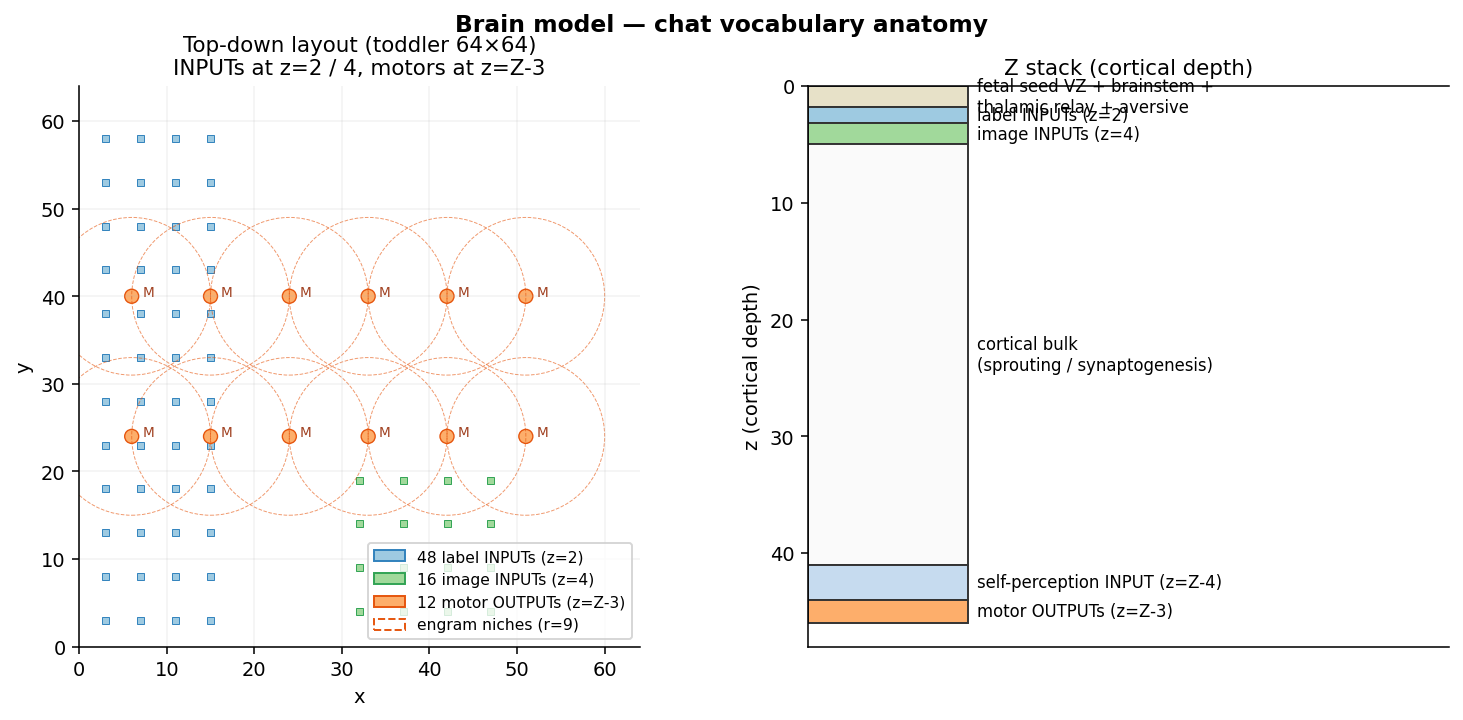
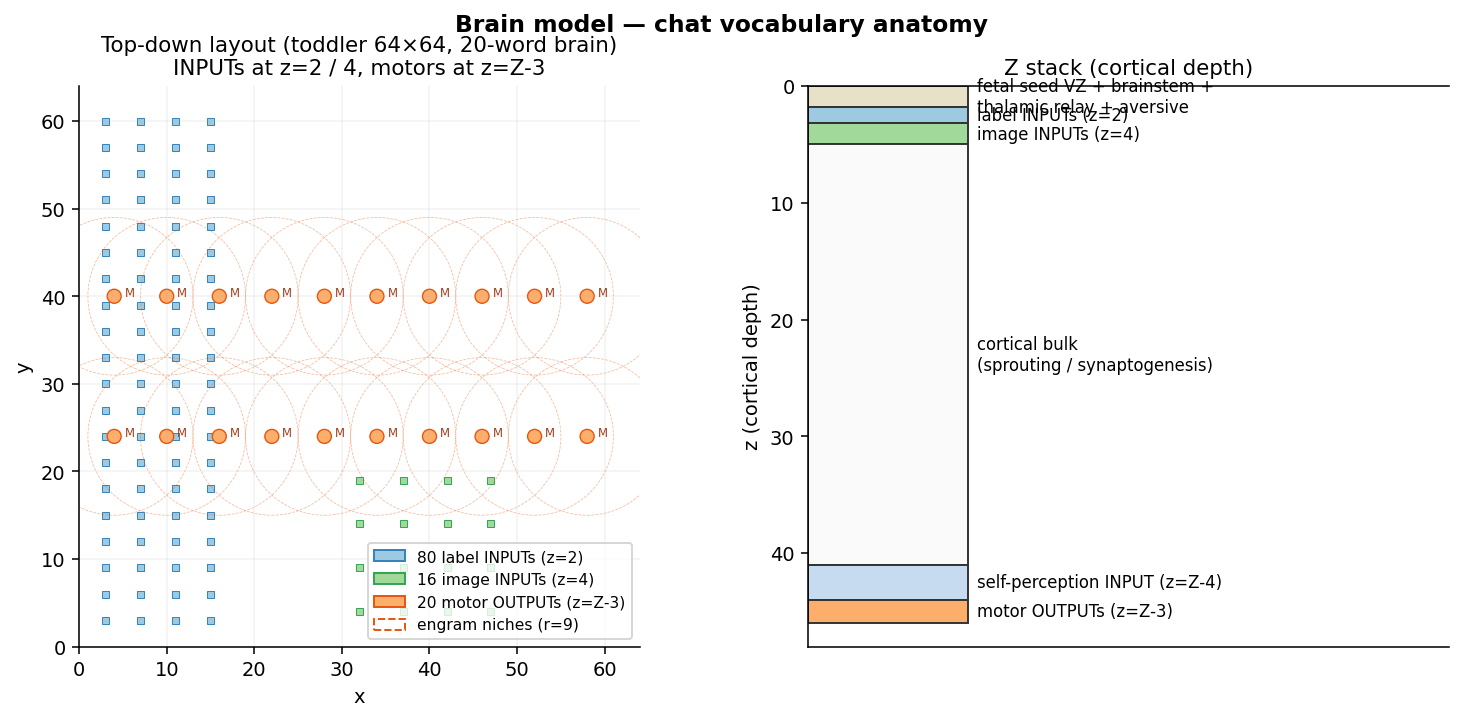
docs: refresh README + anatomy figure for 20-word baseline
The README and figures were calibrated to the 12-word brain at 75%
s15 (Pack 25.1). The cumulative pack history since then:

  Pack 25/25.1, Pack P-lite v1/v2, Pack ZZ v3, Pack M v2,
  Phase 1 morphology refactor, Phase 1' expansion,
  Vocabulary 12 -> 16 -> 20

has lifted the baseline to **100% accuracy across 25 sessions**
with 20/20 perfect recall in pure-review.

This commit:
- Updates README's "live baseline" callouts and the curriculum
  section to reflect the 20-word vocabulary at 100%.
- Adds a brief road-here summary listing every shipped pack.
- Regenerates 04_anatomy.png to show the 20-word layout (80 label
  INPUTs in 20 rows, 20 motor OUTPUTs in a 2x10 grid stride 6).

diff --git a/docs/figures/render_figures.py b/docs/figures/render_figures.py
@@ -187,14 +187,17 @@ def fig_queues():
 def fig_anatomy():
     fig, axes = plt.subplots(1, 2, figsize=(13, 5.2))
 
-    # Top-down (x, y) layout at the cortical floor / mid-depth
+    # Top-down (x, y) layout at the cortical floor / mid-depth.
+    # 20-word brain: 20 rows of 4 label INPUTs at z=2 (stride 3 in y),
+    # 4x4 image INPUTs at z=4, 2x10 motors at z=Z-3 (stride 6 in x).
     ax = axes[0]
-    ax.set_title("Top-down layout (toddler 64×64)\n"
+    ax.set_title("Top-down layout (toddler 64×64, 20-word brain)\n"
                  "INPUTs at z=2 / 4, motors at z=Z-3")
-    # ext_in: 12 rows × 4 cols at x=3..15, y=3..58 stride 5 (z=2)
-    for c in range(12):
+    n_classes = 20
+    # ext_in: 20 rows × 4 cols at y=3..60 stride 3 (z=2)
+    for c in range(n_classes):
         for f in range(4):
-            x = 3 + f * 4; y = 3 + c * 5
+            x = 3 + f * 4; y = 3 + c * 3
             ax.add_patch(plt.Rectangle((x - 0.4, y - 0.4), 0.8, 0.8,
                                         facecolor="#9ecae1",
                                         edgecolor="#3182bd", lw=0.5))
@@ -205,30 +208,30 @@ def fig_anatomy():
             ax.add_patch(plt.Rectangle((x - 0.4, y - 0.4), 0.8, 0.8,
                                         facecolor="#a1d99b",
                                         edgecolor="#31a354", lw=0.5))
-    # motors: 2 rows × 6 cols at xm=6..51, ym=Y/2-8 / +8 (z=Z-3)
-    for c in range(12):
-        col = c % 6; row = c // 6
-        xm = 6 + col * 9; ym = (32 - 8) + row * 16
+    # motors: 2 rows × 10 cols at xm=4..58 stride 6, ym=Y/2-8 / +8
+    for c in range(n_classes):
+        col = c % 10; row = c // 10
+        xm = 4 + col * 6; ym = (32 - 8) + row * 16
         ax.add_patch(plt.Circle((xm, ym), 0.8, facecolor="#fdae6b",
                                  edgecolor="#e6550d", lw=0.7))
-        ax.text(xm + 1.2, ym, "M", fontsize=7, color="#a04020")
+        ax.text(xm + 1.2, ym, "M", fontsize=6, color="#a04020")
     # niches: radius 9 around each motor
-    for c in range(12):
-        col = c % 6; row = c // 6
-        xm = 6 + col * 9; ym = (32 - 8) + row * 16
+    for c in range(n_classes):
+        col = c % 10; row = c // 10
+        xm = 4 + col * 6; ym = (32 - 8) + row * 16
         ax.add_patch(plt.Circle((xm, ym), 9, facecolor="none",
-                                 edgecolor="#e6550d", lw=0.5,
-                                 linestyle="--", alpha=0.6))
+                                 edgecolor="#e6550d", lw=0.4,
+                                 linestyle="--", alpha=0.4))
     ax.set_xlim(0, 64); ax.set_ylim(0, 64); ax.set_aspect("equal")
     ax.set_xlabel("x"); ax.set_ylabel("y")
     ax.grid(alpha=0.15)
     legend_handles = [
         mpatches.Patch(facecolor="#9ecae1", edgecolor="#3182bd",
-                       label="48 label INPUTs (z=2)"),
+                       label="80 label INPUTs (z=2)"),
         mpatches.Patch(facecolor="#a1d99b", edgecolor="#31a354",
                        label="16 image INPUTs (z=4)"),
         mpatches.Patch(facecolor="#fdae6b", edgecolor="#e6550d",
-                       label="12 motor OUTPUTs (z=Z-3)"),
+                       label="20 motor OUTPUTs (z=Z-3)"),
         mpatches.Patch(facecolor="none", edgecolor="#e6550d",
                        linestyle="--",
                        label="engram niches (r=9)"),

diff --git a/README.md b/README.md
@@ -18,9 +18,34 @@ This README explains the two complementary models that the project rests on:
 
 The detailed pack-by-pack history (what was tried, what regressed, what
 shipped) lives in the auto-memory under
-`~/.claude/projects/-home-chanyoung-snc/memory/`. The current live baseline is
-**Pack 25.1** (commit `84009ec`) — 75% accuracy at session 15 on the 12-word
-lifetime sweep.
+`~/.claude/projects/-home-chanyoung-snc/memory/`. The current live baseline
+is **20-word vocabulary expansion** (commit `ba86e66`) — **100% accuracy
+across 25 sessions** with 20/20 perfect recall in pure-review. The 20
+words span 8 semantic groups (people, objects, greetings, response,
+action, numbers, colours).
+
+This is the cumulative outcome of the whole pack history. The road there:
+
+- **Pack 24-curriculum** (75% s15 on 12 words) — spaced rehearsal of
+  the oldest word every 3 sessions.
+- **Pack 25 / 25.1** — CREB-style engram allocation, memory linking,
+  silent engrams, bias-overrides-niche.
+- **Pack P-lite v1 / v2** (83% s15 → 91.7% later) — event-driven spike
+  dispatch via a `DeliveryEvent` ring; deterministic OpenMP via
+  per-target bucketing.
+- **Pack ZZ v3** (91.7% s15) — microglial pruning (silence-age + weak
+  weight + tag-protection) with CD47/SIRPα-style protection of
+  permanent / engram synapses.
+- **Pack M v2** (91.7% s15) — real neuron shapes stamped at birth via
+  per-cell-type morphology templates.
+- **Phase 1 morphology refactor** (100% s15) — synaptogenesis becomes
+  AXON × DENDRITE only, matching real cortical chemistry. Spurious
+  NEURON × NEURON contacts no longer become synapses.
+- **Phase 1' expansion** — multi-voxel pyramidal + interneuron arbours
+  (DeFelipe 2013 pyramidal; Tremblay 2016 interneurons).
+- **Vocabulary expansion 12 → 16 → 20** — added number basics
+  (one..four) and colour basics (red, green, blue, yellow), the first
+  steps toward the Pack 29 counting + minimal-math goal.
 
 ---
 
@@ -33,7 +58,7 @@ cmake --build build -j
 # Tiny structural-only demo
 ./build/snc_demo
 
-# Conversational REPL with 12-word vocabulary
+# Conversational REPL with 20-word vocabulary
 ./build/snc_chat
 
 # 15-session lifetime sweep with the current curriculum
@@ -57,7 +82,7 @@ src/
   brain_grid.cpp      grid storage, neighbour iteration
   energy_field.cpp    regional energy bookkeeping
   simulator.cpp       phases: integrate, chemistry, STDP, ... pruning
-  chat_demo.cpp       12-word teaching REPL (the main demo)
+  chat_demo.cpp       20-word teaching REPL (the main demo)
   vocab_demo.cpp      4-word fixed-vocabulary demo (legacy)
   mom_dad_demo.cpp    minimal 2-word demo
   learn_demo.cpp      data-driven feature-classification demo
@@ -377,21 +402,23 @@ sparse-coding / winner-take-all dynamics needed for clean output decoding.
 
 ### Curriculum: how the brain learns
 
-The lifetime sweep (`scripts/run_lifetime.py`) drives 15 sessions each as a
+The lifetime sweep (`scripts/run_lifetime.py`) drives N sessions each as a
 fresh load of `snc_chat`:
 
 - Session 1: bootstrap (`babble 30` + teach mom, dad twice each).
-- Sessions 2–12: each teaches one new word (twice with reward) and probes all
-  taught so far. **Pack 24-curriculum**: every 3rd session re-teaches the
-  oldest word once (spaced rehearsal — empirically validated 2× retention
-  advantage over massed repetition).
-- Sessions 13+: pure review (no new teaching). Adding random babble or
-  imagery rehearsal hurt baseline; silent space + probes let consolidation
-  finish.
+- Sessions 2..len(ALL_WORDS): each teaches one new word (twice with reward)
+  and probes all taught so far. **Pack 24-curriculum**: every 3rd session
+  re-teaches the oldest word once (spaced rehearsal — empirically validated
+  2× retention advantage over massed repetition).
+- Sessions len(ALL_WORDS)+1..N: pure review (no new teaching). Adding random
+  babble or imagery rehearsal hurt baseline; silent space + probes let
+  consolidation finish.
 
-Current best: **75% accuracy at session 15** (9/12 words recalled correctly
-without label cues). The 12-word vocabulary is from CHILDES and the
-MacArthur-Bates CDI early-acquisition lists.
+**Current best**: **100% accuracy across 25 sessions** (20/20 words recalled
+correctly without label cues throughout pure-review). The 20-word
+vocabulary is from CHILDES and the MacArthur-Bates CDI early-acquisition
+lists, organised as 12 toddler concepts + 4 number basics + 4 colour basics
+across 8 semantic groups.
 
 ---
 
@@ -418,7 +445,8 @@ human-cortex evolution.
 
 ## Status and roadmap
 
-**Live baseline**: Pack 25.1 (`84009ec`) — 75% s15 lifetime sweep.
+**Live baseline**: 20-word vocabulary expansion (`ba86e66`) — **100%
+accuracy across 25 sessions, 20/20 perfect recall in pure-review**.
 
 **Pack history (all on `feat/snc-core-and-embodied-demo`)**: 19A engram
 protection · 19B `know/guess/unknown` protocol · 19D demand-driven growth ·